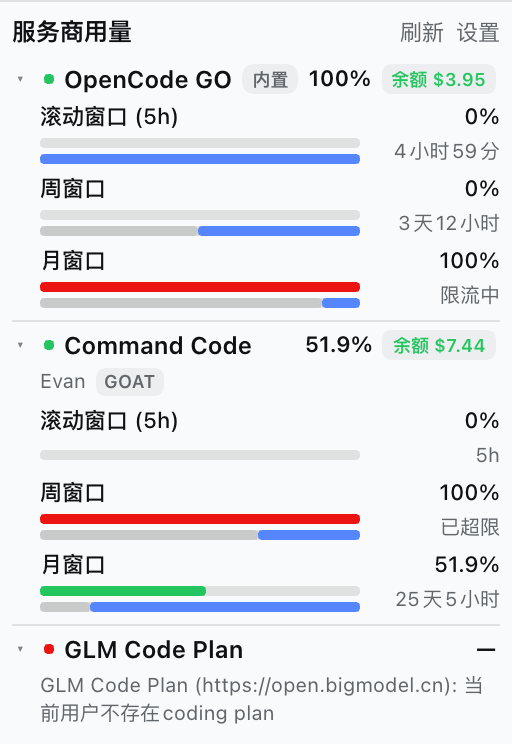
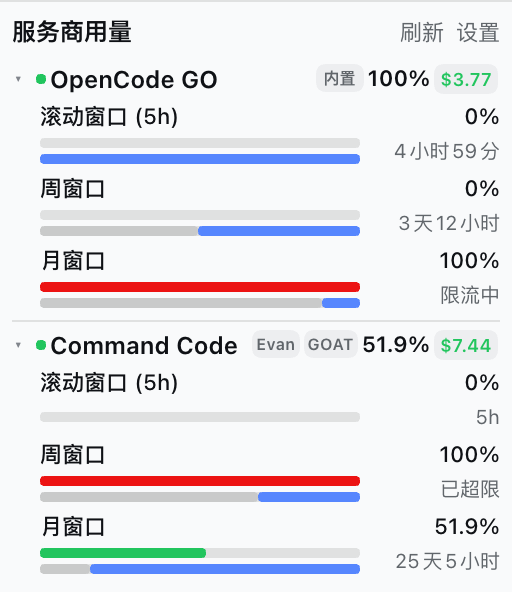
fix: keep account and plan badges on the provider header line

Changed region(s): [[0.0312, 0.0, 1.0, 0.973], [0.5938, 0.0912, 0.7188, 0.152], [0.5, 0.0912, 0.5625, 0.1216]]

diff --git a/lib/client.js b/lib/client.js
@@ -45,12 +45,12 @@ window.__ModuleLoader__.load({
 				".dpu-providers{display:flex;flex-direction:column;gap:1px;min-width:0}",
 				".dpu-provider{box-sizing:border-box;min-width:0;padding:2px 0;border-top:1px solid var(--dsw-alias-border-l2)}",
 				".dpu-provider:first-child{border-top:none;padding-top:0}",
-				".dpu-provider-head{display:flex;align-items:center;gap:5px;width:100%;min-width:0;border:none;background:transparent;border-radius:6px;padding:1px 2px;font:inherit;color:inherit;cursor:pointer;text-align:left}",
+				".dpu-provider-head{display:flex;align-items:center;gap:2px;width:100%;min-width:0;border:none;background:transparent;border-radius:6px;padding:1px 1px;font:inherit;color:inherit;cursor:pointer;text-align:left}",
 				".dpu-provider-head:hover{background:var(--dsw-alias-interactive-bg-hover)}",
 				".dpu-chevron{flex:none;width:9px;font-size:9px;line-height:16px;color:var(--dsw-alias-label-tertiary)}",
 				".dpu-provider-name{flex:1;min-width:0;overflow:hidden;text-overflow:ellipsis;white-space:nowrap;font-size:12px;font-weight:600}",
 				".dpu-provider-pct{flex:none;font-size:11px;font-weight:600;line-height:16px;color:var(--dsw-alias-label-primary)}",
-				".dpu-provider-balance{flex:none;max-width:96px;overflow:hidden;text-overflow:ellipsis;white-space:nowrap;padding:0 5px;border-radius:6px;font-size:9px;line-height:15px;font-weight:600;color:var(--dsw-alias-state-success-primary);background:var(--dsw-alias-interactive-bg-hover)}",
+				".dpu-provider-balance{flex:none;max-width:96px;overflow:hidden;text-overflow:ellipsis;white-space:nowrap;padding:0 3px;border-radius:6px;font-size:9px;line-height:15px;font-weight:600;color:var(--dsw-alias-state-success-primary);background:var(--dsw-alias-interactive-bg-hover)}",
 				".dpu-provider-balance.dpu-muted{color:var(--dsw-alias-label-tertiary)}",
 				".dpu-provider-body{display:flex;flex-direction:column;gap:4px;min-width:0;padding:2px 0 3px 14px}",
 				".dpu-provider-error{font-size:10px;line-height:14px;color:var(--dsw-alias-label-secondary);overflow:hidden;display:-webkit-box;-webkit-line-clamp:2;-webkit-box-orient:vertical;overflow-wrap:anywhere}",
@@ -59,9 +59,9 @@ window.__ModuleLoader__.load({
 				".dpu-dot.dpu-error{background:var(--dsw-alias-state-error-primary)}",
 				".dpu-dot.dpu-warn{background:var(--dsw-alias-state-warn-primary)}",
 				".dpu-sub{display:flex;align-items:center;gap:5px;min-width:0;font-size:10px;line-height:15px;color:var(--dsw-alias-label-secondary)}",
-				".dpu-account{min-width:0;overflow:hidden;text-overflow:ellipsis;white-space:nowrap}",
-				".dpu-plan{flex:none;padding:0 4px;border-radius:6px;background:var(--dsw-alias-interactive-bg-hover);font-size:9px;line-height:14px;font-weight:600;color:var(--dsw-alias-label-secondary);white-space:nowrap}",
-				".dpu-badge{flex:none;padding:0 5px;border-radius:8px;font-size:9px;line-height:15px;font-weight:600;color:var(--dsw-alias-label-secondary);background:var(--dsw-alias-interactive-bg-hover);white-space:nowrap;cursor:default}",
+				".dpu-account{flex:none;max-width:56px;overflow:hidden;text-overflow:ellipsis;padding:0 2px;border-radius:6px;background:var(--dsw-alias-interactive-bg-hover);font-size:8px;line-height:14px;font-weight:600;color:var(--dsw-alias-label-secondary);white-space:nowrap}",
+				".dpu-plan{flex:none;max-width:64px;overflow:hidden;text-overflow:ellipsis;padding:0 2px;border-radius:6px;background:var(--dsw-alias-interactive-bg-hover);font-size:8px;line-height:14px;font-weight:600;color:var(--dsw-alias-label-secondary);white-space:nowrap}",
+				".dpu-badge{flex:none;padding:0 4px;border-radius:6px;font-size:8px;line-height:14px;font-weight:600;color:var(--dsw-alias-label-secondary);background:var(--dsw-alias-interactive-bg-hover);white-space:nowrap;cursor:default}",
 				".dpu-row{display:flex;flex-direction:column;gap:3px;min-width:0}",
 				".dpu-row-label{display:flex;justify-content:space-between;gap:8px;font-size:11px;line-height:15px;color:var(--dsw-alias-label-secondary)}",
 				".dpu-row-label b{font-weight:500;color:var(--dsw-alias-label-primary)}",
@@ -552,10 +552,12 @@ window.__ModuleLoader__.load({
 		}
 
 		/** Compact balance label for a provider header (empty when unavailable). */
-		function formatBalanceShort(t, provider) {
+		function formatBalanceShort(_t, provider) {
 			const balance = provider?.balance;
 			if (!balance || typeof balance.amount !== "number" || !Number.isFinite(balance.amount)) return "";
-			return t("balance.short") + " " + formatMoney(balance);
+			// The header is tight; the amount alone is enough, the tooltip carries
+			// the "balance" label and source.
+			return formatMoney(balance);
 		}
 
 		function collapseStorageKey() {
@@ -1161,15 +1163,16 @@ window.__ModuleLoader__.load({
 				const planName = provider.plan && typeof provider.plan.name === "string" ? provider.plan.name.trim() : "";
 				const fallback = provider.fallback && typeof provider.fallback === "object" ? provider.fallback : null;
 
-				const sub = [];
-				if (accountName !== "") {
-					sub.push(react_jsx_runtime.jsx("span", {
-						className: "dpu-account",
-						title: t("widget.account.title", { name: accountName }),
-						children: accountName
-					}, "account"));
-				}
-				if (planName !== "") sub.push(react_jsx_runtime.jsx("span", { className: "dpu-plan", children: planName }, "plan"));
+				const accountBadge = accountName === "" ? null : react_jsx_runtime.jsx("span", {
+					className: "dpu-account",
+					title: t("widget.account.title", { name: accountName }),
+					children: accountName
+				}, "account");
+				const planBadge = planName === "" || planName.length > 12 ? null : react_jsx_runtime.jsx("span", {
+					className: "dpu-plan",
+					title: planName,
+					children: planName
+				}, "plan");
 				const fallbackBadge = fallback === null ? null : react_jsx_runtime.jsx("span", {
 					className: "dpu-badge",
 					title: fallbackTitle(t, fallback, provider.source),
@@ -1235,9 +1238,6 @@ window.__ModuleLoader__.load({
 				}
 
 				const body = [];
-				if (sub.length > 0) {
-					body.push(react_jsx_runtime.jsx("div", { className: "dpu-sub", children: sub }, "sub"));
-				}
 				if (provider.status === "error") {
 					const message = asText(provider.error) || t("status.error");
 					body.push(react_jsx_runtime.jsx("div", {
@@ -1284,6 +1284,8 @@ window.__ModuleLoader__.load({
 									className: "dpu-provider-name",
 									children: provider.name || t("provider." + provider.id)
 								}),
+								accountBadge,
+								planBadge,
 								fallbackBadge,
 								react_jsx_runtime.jsx("span", {
 									className: "dpu-provider-pct",
